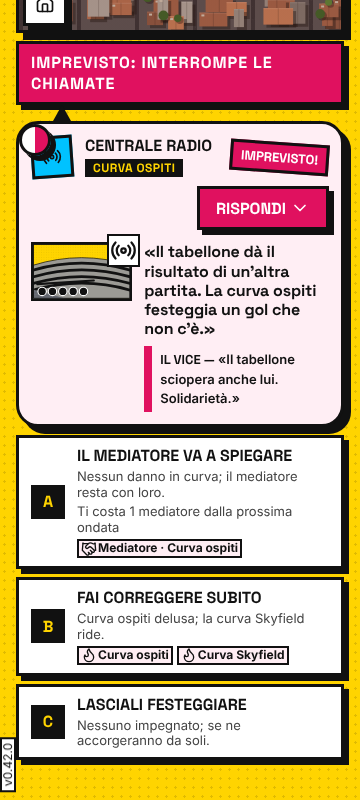
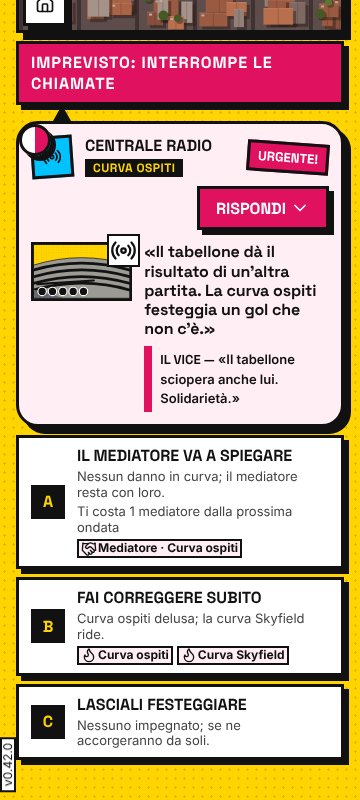
PO-022: l'imprevisto non cambia timbro e spicchio (D-129, niente segni di tempo); PO-085 non conta le opzioni spente di D-153

Changed region(s): [[0.6111, 0.1562, 0.8861, 0.2188]]

diff --git a/src/resa/schermate/Ondata.tsx b/src/resa/schermate/Ondata.tsx
@@ -95,7 +95,7 @@ export function Chiamata(p: { m: Missione; ic: InCorso; c: TChiamata; numero: nu
       {imprevistoQui && <p className="avviso-imprevisto" data-imprevisto={p.c.id} role="status">Imprevisto: interrompe le chiamate</p>}
       <Messaggio key={p.c.id} classe={`radio ultimo${imprevistoQui ? ' imprevisto' : ''}`} dati={`chiamata-${p.c.id}`}>
         {/* C22-09: l'avatar segue la stessa regola dell'icona accanto alla vignetta (prima: 222/498 chiamate con l'icona generica). Rosso C59A01 */}
-        <Mittente icona={(!spento('C59A01') && iconaChi(p.c.fonte)) || iconaFonte(p.c.fonte)} nome={t(`fonte.${p.c.fonte}`)} etichetta={p.c.settore ? t(`settore.${p.c.settore}`) : undefined} timbro={imprevistoQui ? 'Imprevisto!' : urgenteQui ? 'Urgente!' : undefined} urgenza={(imprevistoQui || urgenteQui) && !spento('C51O01')} />
+        <Mittente icona={(!spento('C59A01') && iconaChi(p.c.fonte)) || iconaFonte(p.c.fonte)} nome={t(`fonte.${p.c.fonte}`)} etichetta={p.c.settore ? t(`settore.${p.c.settore}`) : undefined} timbro={urgenteQui ? 'Urgente!' : undefined} urgenza={urgenteQui && !spento('C51O01')} />
         {/* C18-05: «Rispondi» dentro il fumetto, sotto il mittente: fisso in basso copriva il testo. Rosso C42R01: fisso. */}
         {serve && !spento('C42R01') && indicatore}
         {/* PO-089 (scelta A del PO): vignetta piccola a sinistra del testo, dentro il fumetto */}

diff --git a/coordination/handoffs/sviluppatrice/S-14-imprevisti.md b/coordination/handoffs/sviluppatrice/S-14-imprevisti.md
@@ -27,7 +27,9 @@ Il prototipo dei tempi (modi a/b/c) è **tolto** dal codice (era in b0c1710; res
   - id unico nell'episodio;
   - **nessun effetto che dia fiducia** (`:56`). Toglierla si può: è nel verso del risultato (D-160).
 - **Resa** (`src/resa/schermate/Ondata.tsx:94-96`): sopra la chiamata compare la fascia «Imprevisto: interrompe le chiamate»
-  (magenta, `src/resa/stile-c18.css:125`) e il timbro «Imprevisto!». Nessun timer. Rosso `__NO_C190I01`: chiamata come le altre.
+  (magenta, `src/resa/stile-c18.css:125`). Nessun timer. Timbro «Urgente!» e spicchio d'orologio restano quelli di D-129
+  (solo con un evento di pressione ≥ 4 sul settore): lo spicchio suggerisce il tempo, e il PO non lo vuole. Rosso
+  `__NO_C190I01`: chiamata come le altre.
 
 ## 2. Contenuti: 22 imprevisti in e01–e06 (uno per ondata)
 
@@ -127,7 +129,7 @@ completa in `s14/misura-imprevisti-blocco1.md`.
 - più `-360-rosso.png` con `__NO_C190I01`.
 
 Esito misurato:
-- 9 foto, 0 difetti: avviso presente e visibile, timbro «Imprevisto!», nessun timer, nessuno scorrimento orizzontale;
+- 9 foto, 0 difetti: avviso presente e visibile, nessun timer, nessuno scorrimento orizzontale;
 - braccio rosso: avviso assente in 3 casi su 3.
 
 ## 7. Catene e CI
